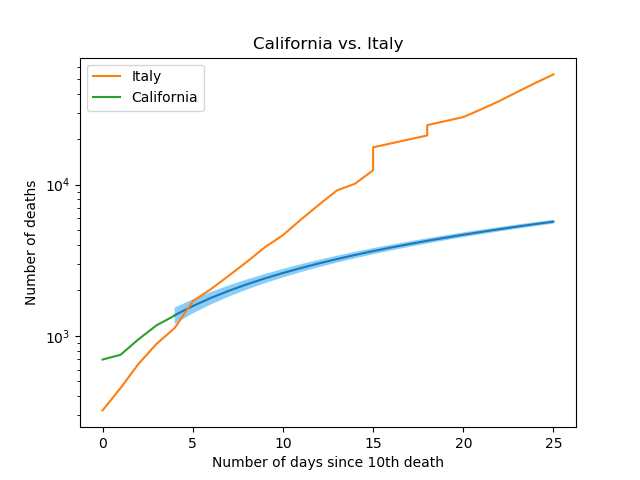
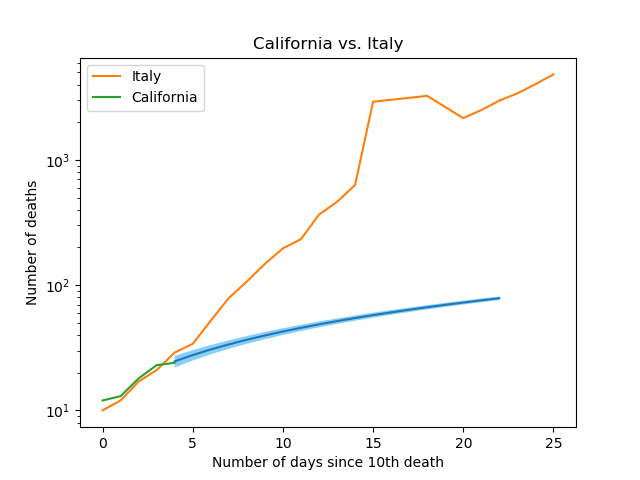
trying to fix data collection

diff --git a/COVIDAnalysisWeb.html b/COVIDAnalysisWeb.html
@@ -1,16 +1,31 @@
 <!DOCTYPE html>
 <title>Test</title> 
 <meta charset=utf-8> 
-
-<a href="~/Desktop/GitHub/COVIDAnalysis/Italy_CA.py">Click me</a>
-<html lang="en">
 <head>
   <meta charset="utf-8">
   <title>COVID19</title>
 </head>
 <body>
 <h1>COVID19</h1>
+    
+<a href="~/Desktop/GitHub/COVIDAnalysis/Italy_CA.py">Update</a>
+<html lang="en">
 
+<input type="button" id='script' name="scriptbutton" value=" Run Script " onclick="goPython()">
+
+    <script src="http://code.jquery.com/jquery-3.3.1.min.js" integrity="sha256-FgpCb/KJQlLNfOu91ta32o/NMZxltwRo8QtmkMRdAu8=" crossorigin="anonymous"></script>
+
+    <script>
+        function goPython(){
+            $.ajax({
+              url: "Italy_CA.py",
+             context: document.body
+            }).done(function() {
+             alert('finished python script');;
+            });
+        }
+    </script>
+    
 <p>
 Semi-log plots of the total number of COVID-19 confirmed cases and deaths in selected countries and states,
 according to the <a href="https://github.com/CSSEGISandData/COVID-19">dataset</a>

diff --git a/Italy_CA.py b/Italy_CA.py
@@ -11,16 +11,19 @@ from pathlib import Path
 import cgi
 import cgitb 
 from flask import Flask, render_template
+from collections import defaultdict
+
+# CONNECT TO HTML PAGE : BEGIN
 
 app = Flask(__name__)
 
 @app.route('/')
 def index():
-  return render_template('template.html')
+  return render_template('COVIDAnalysisWeb.html')
 
-@app.route('~/Desktop/GitHub/COVIDAnalysis/Italy_CA.py')
+@app.route('/~/Desktop/GitHub/COVIDAnalysis/Italy_CA.py')
 def my_link():
-  print 'I got clicked!'
+  print('I got clicked!')
 
   return 'Click.'
 
@@ -29,6 +32,9 @@ if __name__ == '__main__':
 
 cgitb.enable(display = 0, logdir="~/Desktop/GitHub/COVIDAnalysis/Italy_CA.py")
 
+# CONNECT TO HTML PAGE : END
+Italy = {}
+California = {}
 Italy_deaths = []
 Italy_days = []
 California_deaths = []
@@ -83,15 +89,21 @@ def Italy_parser(line, date):
 			date = datetime.strptime(match.group(), "%Y-%m-%d").date()
 			if italy_found_start:
 				diff = date - Italy_start
-				if diff.days == 15:
-					print(date)
-				Italy_days.append(diff.days)
-				Italy_deaths.append((int)(data[3]))
-			if data[ca_death_index] != '' and (int)(data[italy_death_index]) >= 10 and (not Italy_deaths): #if it is empty
+				key = diff.days
+				if key in Italy:
+					Italy[diff.days] += (int)(data[italy_death_index])
+				else:
+					Italy[diff.days] = (int)(data[italy_death_index])
+				#Italy.update({diff.days : (int)(data[italy_death_index])})
+				#Italy_days.append(diff.days)
+				#Italy_deaths.append((int)(data[3]))
+			if data[ca_death_index] != '' and (int)(data[italy_death_index]) >= 10 and (not italy_found_start): #if it is empty
 				Italy_start = date
 				italy_found_start = True
-				Italy_days.append(0)
-				Italy_deaths.append((int)(data[3]))
+				Italy[0] = (int)(data[italy_death_index])
+				#Italy.update({0 : (int)(data[italy_death_index])})
+				#Italy_days.append(0)
+				#Italy_deaths.append((int)(data[3]))
 
 def CA_parser(line, date): 
 	global ca_found_start, CA_start
@@ -102,13 +114,21 @@ def CA_parser(line, date):
 			date = datetime.strptime(match.group(), "%Y-%m-%d").date()
 			if ca_found_start:
 				diff = date - CA_start
-				California_days.append(diff.days)
-				California_deaths.append((int)(data[3]))
-			if data[ca_death_index] != '' and (int)(data[ca_death_index]) >= 10 and (not California_deaths): #if it is empty
+				key = diff.days
+				if key in California:
+					California[diff.days] += (int)(data[ca_death_index])
+				else:
+					California[diff.days] = (int)(data[ca_death_index])
+				#California.update({diff.days : (int)(data[ca_death_index])})
+				#California_days.append(diff.days)
+				#California_deaths.append((int)(data[3]))
+			if data[ca_death_index] != '' and (int)(data[ca_death_index]) >= 10 and (not ca_found_start): #if it is empty
 				CA_start = date
 				ca_found_start = True
-				California_days.append(0)
-				California_deaths.append((int)(data[3]))
+				California[0] = (int)(data[ca_death_index])
+				#California.update({0 : (int)(data[ca_death_index])})
+				#California_days.append(0)
+				#California_deaths.append((int)(data[3]))
 
 
 for filename in dir_files:
@@ -127,14 +147,21 @@ for filename in dir_files:
 			Italy_parser(line,file_date)
 			CA_parser(line, file_date)
 
+Italy_days = list(Italy.keys())
+Italy_deaths = list(Italy.values())
+California_days = list(California.keys())
+California_deaths = list(California.values())
+
+print(California)
+print(Italy)
+print(California_days)
+
 # EXTRACT DATA POINTS : END
 			
 # LINEAR REGRESSION : BEGIN
 
 last3daysCA = California_days[-3:]
 last3deathsCA = California_deaths[-3:]
-print(last3deathsCA)
-print(last3daysCA)
 
 def best_fit(X, Y):
     xbar = sum(X)/len(X)
@@ -171,6 +198,7 @@ plt.legend(loc = "upper left")
 plt.title('California vs. Italy')
 plt.xlabel("Number of days since 10th death")
 plt.ylabel("Number of deaths")
+#plt.show()
 plt.savefig("ItalyvCA.png")
 
 # PLOT GRAPH : END 
